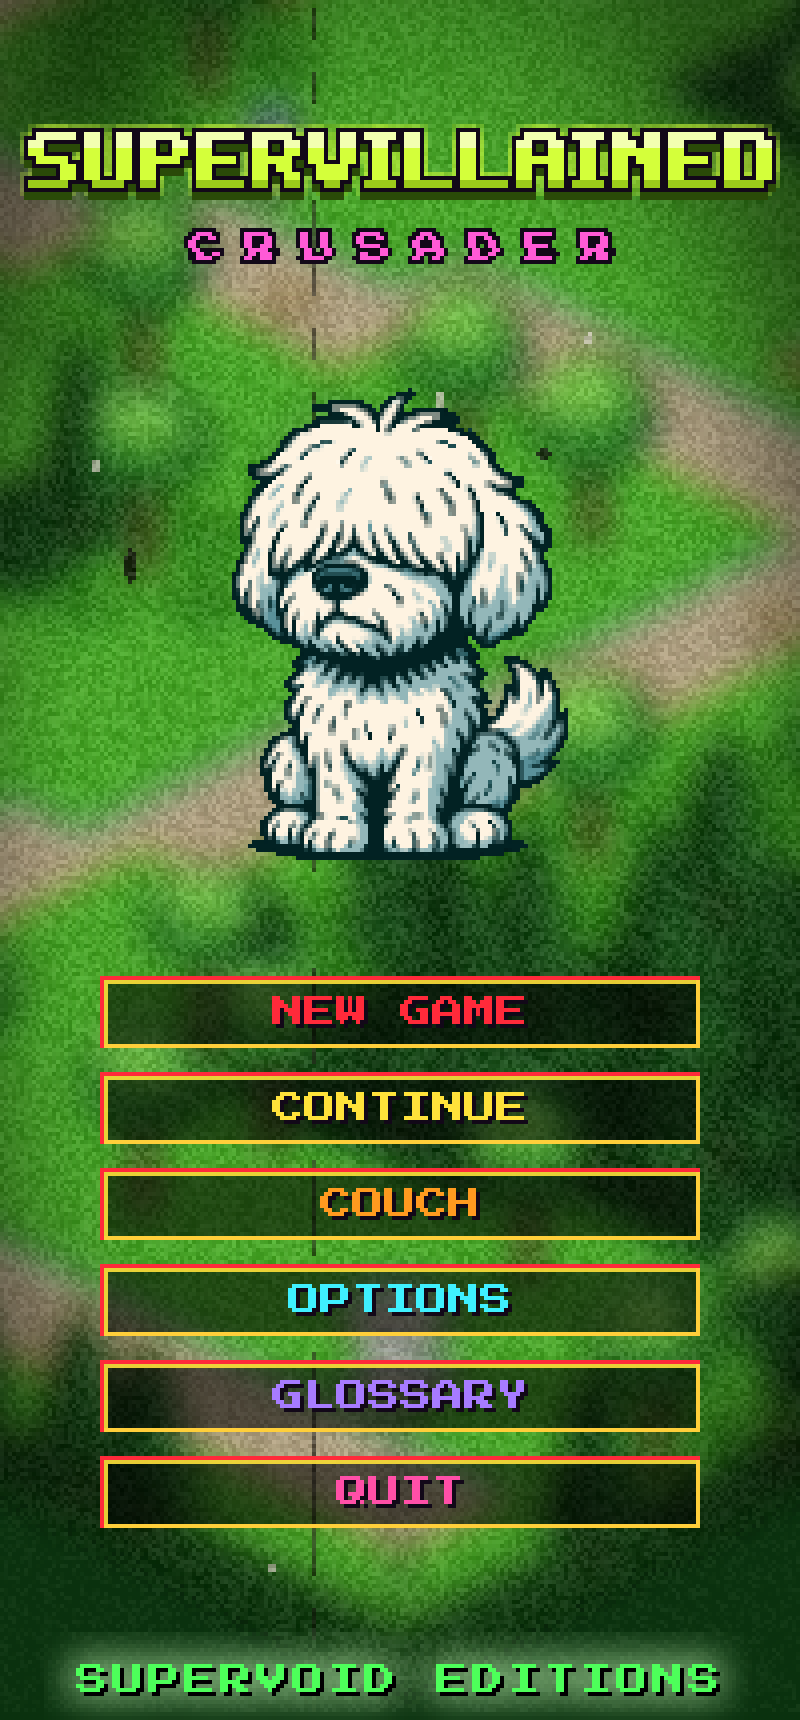
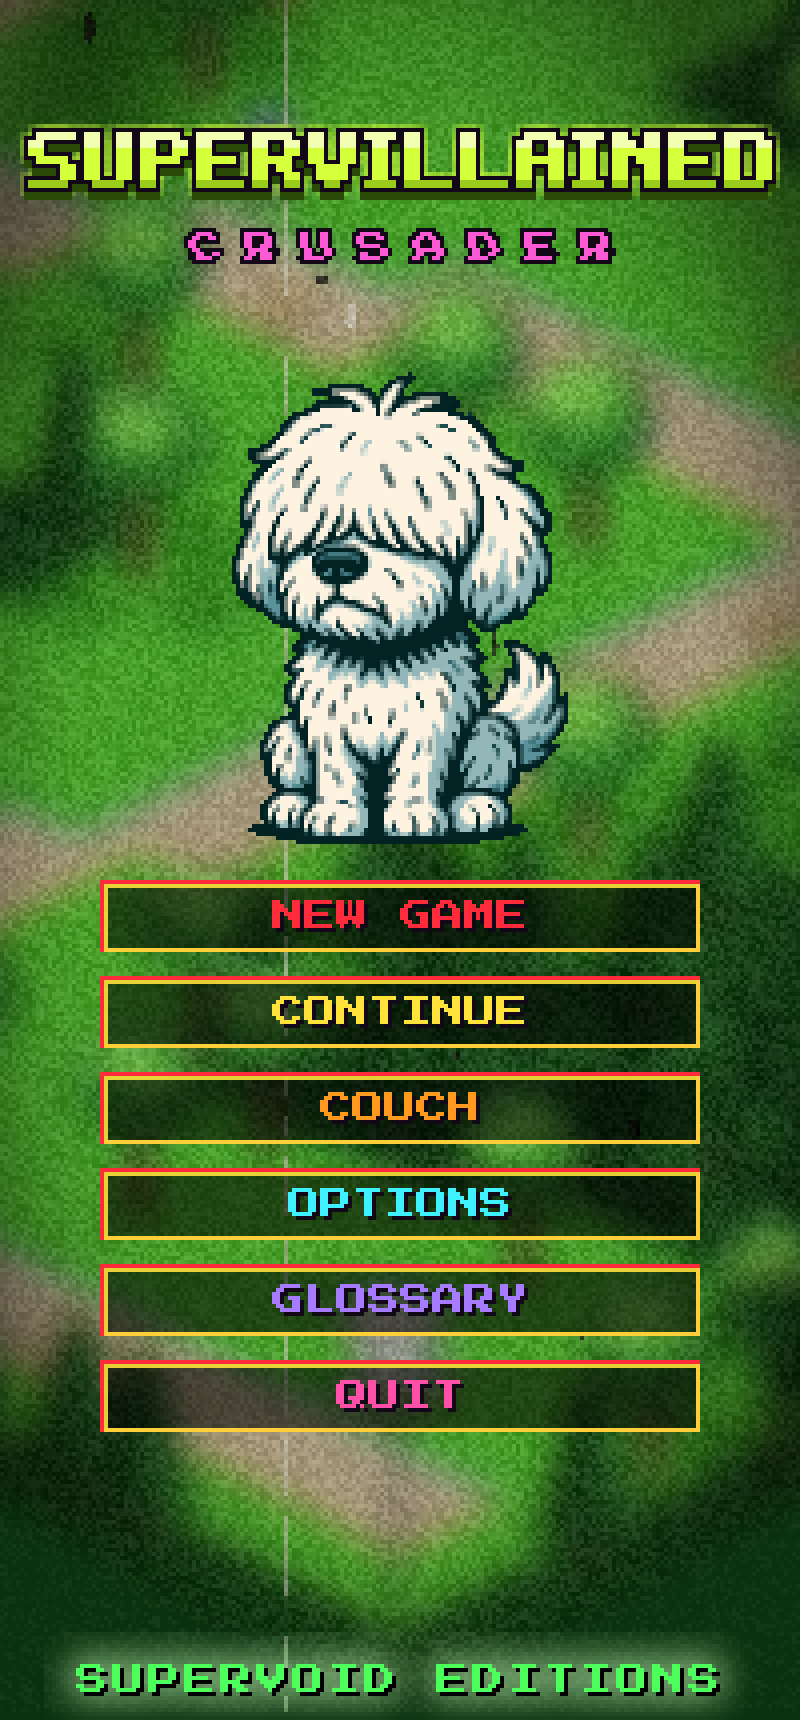
Title: buttons and INSERT BRAIN one button's space higher
They rise by one button (TITLE.BUTTONS_RAISE = 18 + 6 px) towards the
portrait, which stays where it was (it only shrinks if a short screen
leaves no room).

Claude-Session: https://claude.ai/code/session_01M83brc3uYNtkMe9oqkk4LQ

diff --git a/src/scenes/overlays.ts b/src/scenes/overlays.ts
@@ -167,17 +167,22 @@ export class TitleScene extends Overlay {
     const editionY = titleY + halfTitle + 10;
     const headerBottom = editionY + 6;
     const footerTop = h - 6 - this.footer.textHeight;
-    const menuBottom = h - 16 - TITLE.BOTTOM_GAP;
+    const baseBottom = h - 16 - TITLE.BOTTOM_GAP;
+    // The buttons and INSERT BRAIN are raised TITLE.BUTTONS_RAISE towards the portrait, which stays
+    // where it was (centered between the title and the buttons' unraised place).
+    const menuBottom = baseBottom - TITLE.BUTTONS_RAISE;
     const menuY = menuBottom - this.menu.height;
-    const bestY = menuBottom + Math.round((footerTop - menuBottom - this.best.textHeight) * TITLE.INSERT_BRAIN_AT);
+    const bestY = menuBottom + Math.round((footerTop - baseBottom - this.best.textHeight) * TITLE.INSERT_BRAIN_AT);
     // The portrait takes DOG_WIDTH of the screen, smaller if it would not fit (short screens).
     const gapTop = headerBottom + 6;
-    const room = menuY - 6 - gapTop;
-    const dogW = Math.max(24, Math.min(Math.round(w * TITLE.DOG_WIDTH), Math.floor(room / TITLE.DOG_ASPECT)));
+    const roomCenter = baseBottom - this.menu.height - 6 - gapTop;
+    const roomFit = menuY - 6 - gapTop;
+    const dogW = Math.max(24, Math.min(Math.round(w * TITLE.DOG_WIDTH), Math.floor(roomFit / TITLE.DOG_ASPECT)));
     const dogH = this.layoutDog(dogW);
+    const dogY = Math.min(gapTop + Math.max(0, Math.round((roomCenter - dogH) / 2)), menuY - 6 - dogH);
     this.title.position.set(cx, titleY);
     this.edition.position.set(cx, editionY);
-    this.dog.position.set(cx, gapTop + Math.max(0, Math.round((room - dogH) / 2)));
+    this.dog.position.set(cx, Math.max(gapTop, dogY));
     this.menu.layout(w / 2, menuY);
     this.best.position.set(cx, bestY);
     this.footer.position.set(cx, h - 6);

diff --git a/src/config.ts b/src/config.ts
@@ -94,6 +94,8 @@ export const TITLE = {
    * half as much.
    */
   BOTTOM_GAP: 32,
+  /** The buttons and INSERT BRAIN then rise by one button's space (18 + 6), nearer the portrait. */
+  BUTTONS_RAISE: 24,
   /** INSERT BRAIN between the buttons and the publisher line: 0 = at the buttons, 1 = at the line. */
   INSERT_BRAIN_AT: 0.4,
   /** ...blinking: one cycle in this many seconds (shown for 60% of it). */

diff --git a/DECISIONS.md b/DECISIONS.md
@@ -567,3 +567,6 @@ done here, with these choices:
   (`TITLE.INSERT_BRAIN_AT`). Where CONTINUE goes is in COUCH.
 - The scene cards no longer show `SOURCE: ...` (the conference or board reference): like CAST, it
   is design information, kept in the chapter data and the bible.
+- The buttons and INSERT BRAIN then rose by one more button's space (`TITLE.BUTTONS_RAISE`), towards
+  the portrait, which stays where it was (it only shrinks or moves up if a short screen leaves no
+  room).
